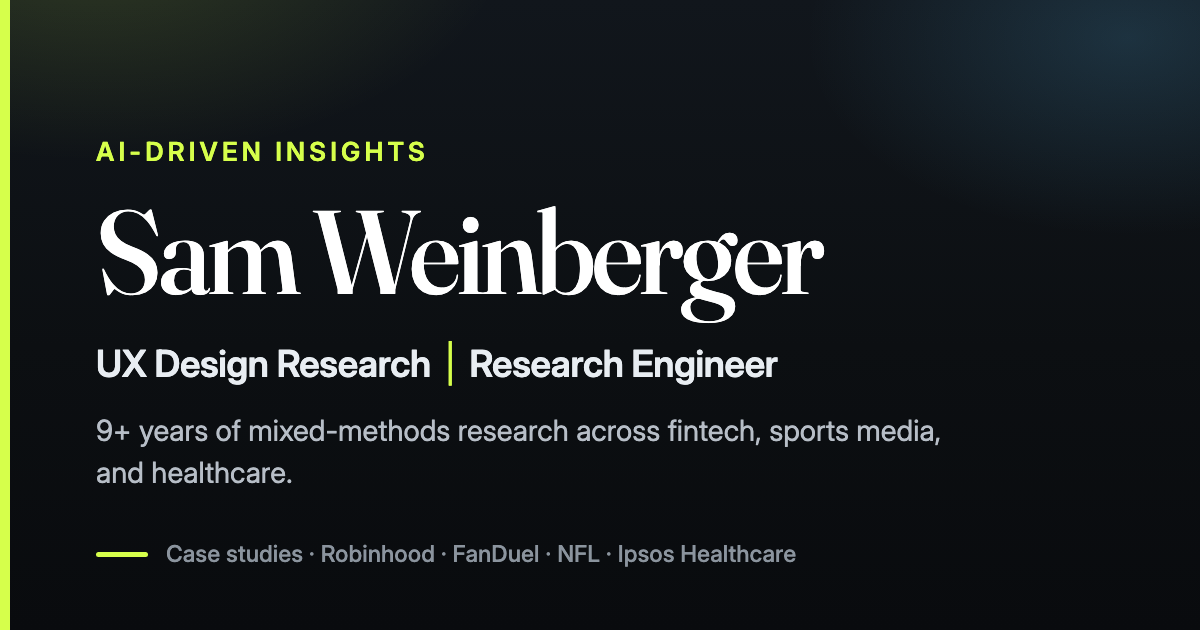
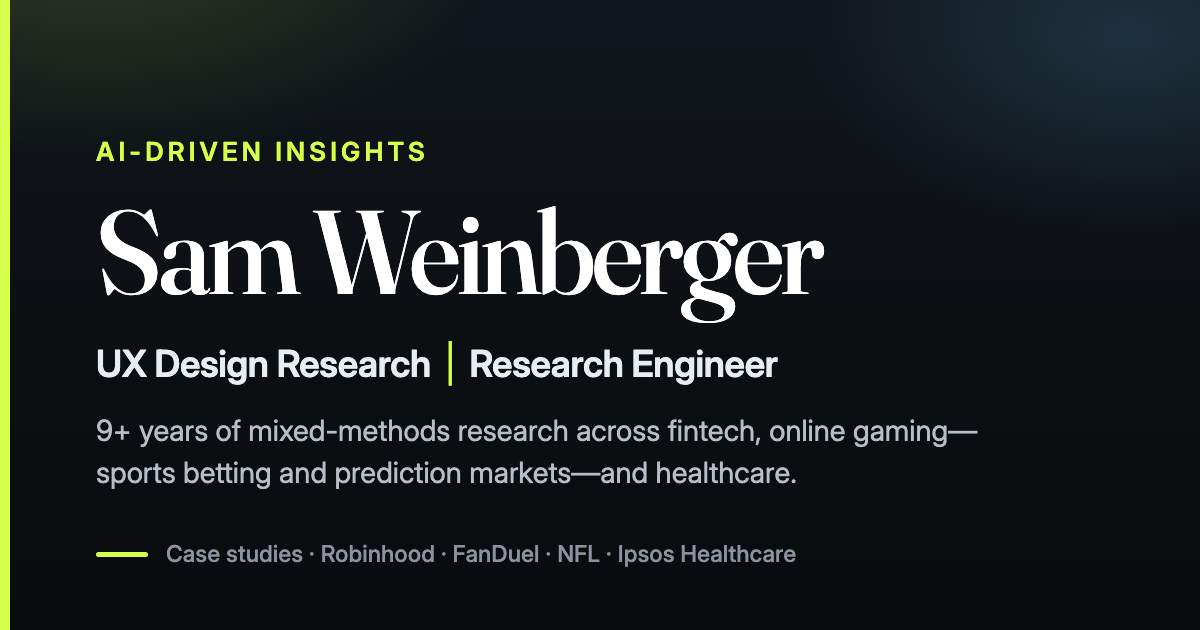
Reframe the industry triad from "sports media" to online gaming (sports betting and prediction markets) across the homepage statement, case-studies intro/meta, about narrative, resume meta, and OG card; rename the "Sports & Media" filter to "Sports & Gaming"

Changed region(s): [[0.0925, 0.6635, 0.8017, 0.7841]]

diff --git a/case-studies.html b/case-studies.html
@@ -4,21 +4,21 @@
   <meta charset="utf-8" />
   <meta name="viewport" content="width=device-width, initial-scale=1" />
   <title>Case studies — Sam Weinberger</title>
-  <meta name="description" content="Eleven case studies across fintech and sports media—each tied to a shipped product decision and a measured outcome." />
+  <meta name="description" content="Eleven case studies across fintech, online gaming, and sports media—each tied to a shipped product decision and a measured outcome." />
   <meta name="robots" content="noindex" />
   <meta name="color-scheme" content="dark light" />
   <script>(function(){document.documentElement.classList.add('js');try{var t=localStorage.getItem('theme');if(t!=='light'&&t!=='dark'){t=window.matchMedia('(prefers-color-scheme: light)').matches?'light':'dark';}document.documentElement.setAttribute('data-theme',t);}catch(e){}})();</script>
   <meta property="og:type" content="website" />
   <meta property="og:site_name" content="Sam Weinberger" />
   <meta property="og:title" content="Case studies — Sam Weinberger" />
-  <meta property="og:description" content="Eleven case studies across fintech and sports media—each tied to a shipped product decision and a measured outcome." />
+  <meta property="og:description" content="Eleven case studies across fintech, online gaming, and sports media—each tied to a shipped product decision and a measured outcome." />
   <meta property="og:url" content="https://samuelcweinberger-web.github.io/Case-Studies/case-studies.html" />
   <meta property="og:image" content="https://samuelcweinberger-web.github.io/Case-Studies/media/og-card.png" />
   <meta property="og:image:width" content="1200" />
   <meta property="og:image:height" content="630" />
   <meta name="twitter:card" content="summary_large_image" />
   <meta name="twitter:title" content="Case studies — Sam Weinberger" />
-  <meta name="twitter:description" content="Eleven case studies across fintech and sports media—each tied to a shipped product decision and a measured outcome." />
+  <meta name="twitter:description" content="Eleven case studies across fintech, online gaming, and sports media—each tied to a shipped product decision and a measured outcome." />
   <meta name="twitter:image" content="https://samuelcweinberger-web.github.io/Case-Studies/media/og-card.png" />
   <link rel="icon" href="favicon.svg" type="image/svg+xml" />
   <link rel="icon" href="favicon.png" type="image/png" sizes="64x64" />
@@ -54,12 +54,12 @@
       <div class="wrap">
         <div class="section-head reveal">
           <h2>Case studies</h2>
-          <p>Eleven studies across fintech and sports media—each tied to a shipped product decision and a measured outcome.</p>
+          <p>Eleven studies across fintech, online gaming, and sports media—each tied to a shipped product decision and a measured outcome.</p>
         </div>
         <div class="filter-bar reveal" data-case-filters role="group" aria-label="Filter case studies by industry">
           <button type="button" class="filter-pill is-active" data-filter="all" aria-pressed="true">All</button>
           <button type="button" class="filter-pill" data-filter="fintech" aria-pressed="false">Fintech</button>
-          <button type="button" class="filter-pill" data-filter="sports-media" aria-pressed="false">Sports &amp; Media</button>
+          <button type="button" class="filter-pill" data-filter="sports-media" aria-pressed="false">Sports &amp; Gaming</button>
         </div>
         <div class="company-group company-robinhood reveal" id="cases-robinhood" data-industry="fintech">
           <div class="product-carousel" data-pcarousel>

diff --git a/resume.html b/resume.html
@@ -4,21 +4,21 @@
   <meta charset="utf-8" />
   <meta name="viewport" content="width=device-width, initial-scale=1" />
   <title>Professional Experience — Sam Weinberger</title>
-  <meta name="description" content="Professional experience across fintech, sports media, healthcare research, and academia." />
+  <meta name="description" content="Professional experience across fintech, online gaming, healthcare research, and academia." />
   <meta name="robots" content="noindex" />
   <meta name="color-scheme" content="dark light" />
   <script>(function(){document.documentElement.classList.add('js');try{var t=localStorage.getItem('theme');if(t!=='light'&&t!=='dark'){t=window.matchMedia('(prefers-color-scheme: light)').matches?'light':'dark';}document.documentElement.setAttribute('data-theme',t);}catch(e){}})();</script>
   <meta property="og:type" content="website" />
   <meta property="og:site_name" content="Sam Weinberger" />
   <meta property="og:title" content="Professional Experience — Sam Weinberger" />
-  <meta property="og:description" content="Professional experience across fintech, sports media, healthcare research, and academia." />
+  <meta property="og:description" content="Professional experience across fintech, online gaming, healthcare research, and academia." />
   <meta property="og:url" content="https://samuelcweinberger-web.github.io/Case-Studies/resume.html" />
   <meta property="og:image" content="https://samuelcweinberger-web.github.io/Case-Studies/media/og-card.png" />
   <meta property="og:image:width" content="1200" />
   <meta property="og:image:height" content="630" />
   <meta name="twitter:card" content="summary_large_image" />
   <meta name="twitter:title" content="Professional Experience — Sam Weinberger" />
-  <meta name="twitter:description" content="Professional experience across fintech, sports media, healthcare research, and academia." />
+  <meta name="twitter:description" content="Professional experience across fintech, online gaming, healthcare research, and academia." />
   <meta name="twitter:image" content="https://samuelcweinberger-web.github.io/Case-Studies/media/og-card.png" />
   <link rel="icon" href="favicon.svg" type="image/svg+xml" />
   <link rel="icon" href="favicon.png" type="image/png" sizes="64x64" />

diff --git a/about.html b/about.html
@@ -57,7 +57,7 @@
             <h2>About me</h2>
           </div>
 
-          <p>I’m an applied cognitive and social psychologist turned UX Design Researcher and Research Engineer. My graduate work in human motivation, persuasion, and behavior change is the foundation for how I approach product strategy—bridging human behavior, data analytics, and interactive design. From FDA-regulated medical device research to the NFL Fantasy app, four years scaling FanDuel’s sportsbook, and now Robinhood’s prediction markets, I’ve run mixed-methods research across healthcare, sports media, and fintech—always tying insights to product and revenue outcomes.</p>
+          <p>I’m an applied cognitive and social psychologist turned UX Design Researcher and Research Engineer. My graduate work in human motivation, persuasion, and behavior change is the foundation for how I approach product strategy—bridging human behavior, data analytics, and interactive design. From FDA-regulated medical device research to the NFL Fantasy app, four years scaling FanDuel’s sportsbook, and now Robinhood’s prediction markets, I’ve run mixed-methods research across healthcare, online gaming, and fintech—always tying insights to product and revenue outcomes.</p>
           <p>The “engineering” in my title isn’t backend software; it’s the research operation itself. I build automated pipelines that field studies in days, telemetry and dashboards that connect what users say to what they actually do, and interactive prototypes built mid-interview—increasingly augmented by generative AI. That infrastructure links research to analytics, design, and product, so insights arrive fast enough to shape strategy and turn complex human behavior into product momentum.</p>
           <p>Outside of work: rocketry and aviation with my son—members of the California Rocket Club and the Academy of Model Aeronautics (AMA)—and baseball, most recently at Cooperstown, where he hit 3 home runs in one game.</p>
 

diff --git a/index.html b/index.html
@@ -82,7 +82,7 @@
 
     <section class="home-statement" id="statement" aria-label="Introduction">
       <div class="wrap">
-        <p class="statement-line reveal">9+ years of mixed-methods research across fintech, sports media, and healthcare.</p>
+        <p class="statement-line reveal">9+ years of mixed-methods research across fintech, online gaming&mdash;sports betting and prediction markets&mdash;and healthcare.</p>
         <p class="statement-line reveal">Every study here ends the same way&mdash;</p>
         <p class="statement-line statement-em reveal">a shipped product decision and a measured outcome.</p>
       </div>
@@ -95,7 +95,7 @@
           <div class="index-paths" role="group" aria-label="Choose a path through the work">
             <button type="button" class="path-link is-active" data-path="all" aria-pressed="true">All</button>
             <button type="button" class="path-link" data-path="fintech" aria-pressed="false">Fintech</button>
-            <button type="button" class="path-link" data-path="sports-media" aria-pressed="false">Sports &amp; Media</button>
+            <button type="button" class="path-link" data-path="sports-media" aria-pressed="false">Sports &amp; Gaming</button>
           </div>
         </header>
         <ol class="idx-list" data-case-index>

diff --git a/generate.py b/generate.py
@@ -843,7 +843,7 @@ def normalize_stat(item):
 
 
 ABOUT_COPY = """
-          <p>I’m an applied cognitive and social psychologist turned UX Design Researcher and Research Engineer. My graduate work in human motivation, persuasion, and behavior change is the foundation for how I approach product strategy—bridging human behavior, data analytics, and interactive design. From FDA-regulated medical device research to the NFL Fantasy app, four years scaling FanDuel’s sportsbook, and now Robinhood’s prediction markets, I’ve run mixed-methods research across healthcare, sports media, and fintech—always tying insights to product and revenue outcomes.</p>
+          <p>I’m an applied cognitive and social psychologist turned UX Design Researcher and Research Engineer. My graduate work in human motivation, persuasion, and behavior change is the foundation for how I approach product strategy—bridging human behavior, data analytics, and interactive design. From FDA-regulated medical device research to the NFL Fantasy app, four years scaling FanDuel’s sportsbook, and now Robinhood’s prediction markets, I’ve run mixed-methods research across healthcare, online gaming, and fintech—always tying insights to product and revenue outcomes.</p>
           <p>The “engineering” in my title isn’t backend software; it’s the research operation itself. I build automated pipelines that field studies in days, telemetry and dashboards that connect what users say to what they actually do, and interactive prototypes built mid-interview—increasingly augmented by generative AI. That infrastructure links research to analytics, design, and product, so insights arrive fast enough to shape strategy and turn complex human behavior into product momentum.</p>
           <p>Outside of work: rocketry and aviation with my son—members of the California Rocket Club and the Academy of Model Aeronautics (AMA)—and baseball, most recently at Cooperstown, where he hit 3 home runs in one game.</p>
 """
@@ -1272,7 +1272,7 @@ def write_home():
 
     <section class="home-statement" id="statement" aria-label="Introduction">
       <div class="wrap">
-        <p class="statement-line reveal">9+ years of mixed-methods research across fintech, sports media, and healthcare.</p>
+        <p class="statement-line reveal">9+ years of mixed-methods research across fintech, online gaming&mdash;sports betting and prediction markets&mdash;and healthcare.</p>
         <p class="statement-line reveal">Every study here ends the same way&mdash;</p>
         <p class="statement-line statement-em reveal">a shipped product decision and a measured outcome.</p>
       </div>
@@ -1285,7 +1285,7 @@ def write_home():
           <div class="index-paths" role="group" aria-label="Choose a path through the work">
             <button type="button" class="path-link is-active" data-path="all" aria-pressed="true">All</button>
             <button type="button" class="path-link" data-path="fintech" aria-pressed="false">Fintech</button>
-            <button type="button" class="path-link" data-path="sports-media" aria-pressed="false">Sports &amp; Media</button>
+            <button type="button" class="path-link" data-path="sports-media" aria-pressed="false">Sports &amp; Gaming</button>
           </div>
         </header>
         <ol class="idx-list" data-case-index>
@@ -1309,7 +1309,7 @@ def write_case_studies_page():
             active="Case studies",
             nav_active="cases",
             page_path="case-studies.html",
-            description="Eleven case studies across fintech and sports media—each tied to a shipped product decision and a measured outcome.",
+            description="Eleven case studies across fintech, online gaming, and sports media—each tied to a shipped product decision and a measured outcome.",
         )
         + f"""
   <main>
@@ -1317,12 +1317,12 @@ def write_case_studies_page():
       <div class="wrap">
         <div class="section-head reveal">
           <h2>Case studies</h2>
-          <p>Eleven studies across fintech and sports media—each tied to a shipped product decision and a measured outcome.</p>
+          <p>Eleven studies across fintech, online gaming, and sports media—each tied to a shipped product decision and a measured outcome.</p>
         </div>
         <div class="filter-bar reveal" data-case-filters role="group" aria-label="Filter case studies by industry">
           <button type="button" class="filter-pill is-active" data-filter="all" aria-pressed="true">All</button>
           <button type="button" class="filter-pill" data-filter="fintech" aria-pressed="false">Fintech</button>
-          <button type="button" class="filter-pill" data-filter="sports-media" aria-pressed="false">Sports &amp; Media</button>
+          <button type="button" class="filter-pill" data-filter="sports-media" aria-pressed="false">Sports &amp; Gaming</button>
         </div>
 {chr(10).join(case_blocks)}
       </div>
@@ -1508,7 +1508,7 @@ def write_resume_page():
             active="Professional Experience",
             nav_active="resume",
             page_path="resume.html",
-            description="Professional experience across fintech, sports media, healthcare research, and academia.",
+            description="Professional experience across fintech, online gaming, healthcare research, and academia.",
         )
         + f"""
   <main>
